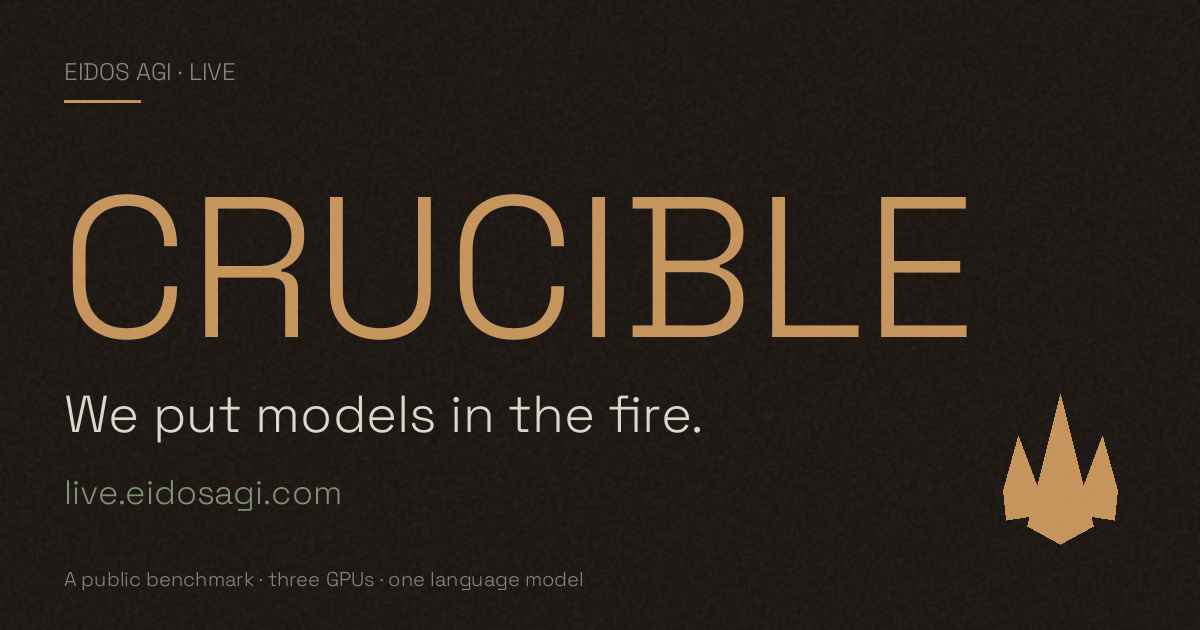
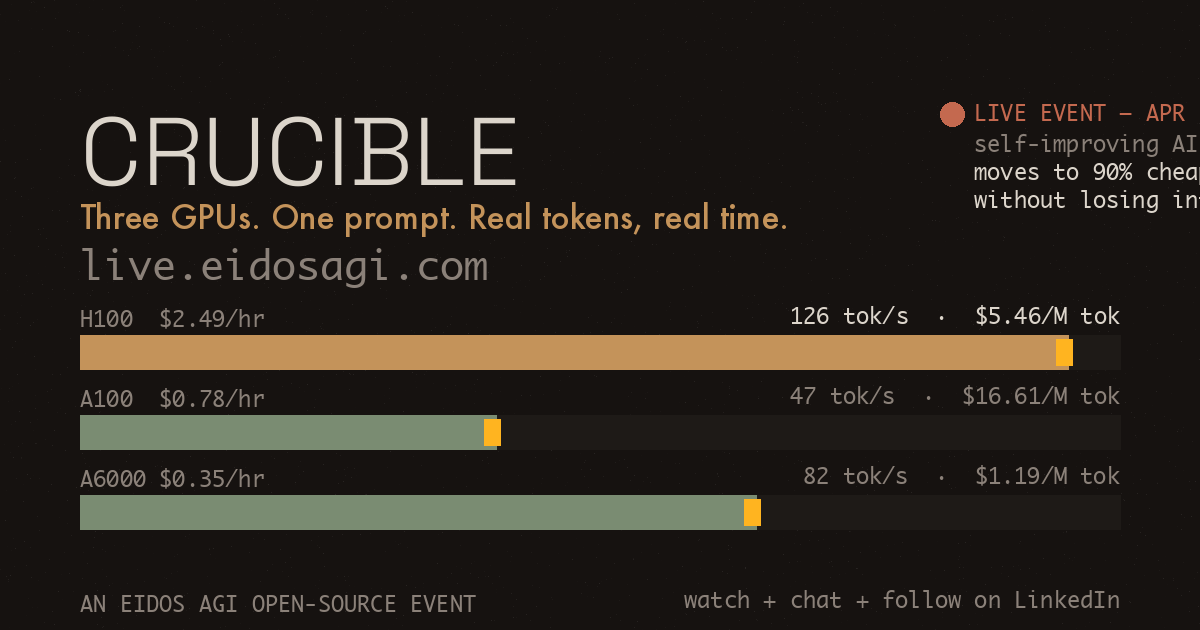
feat: hero OG for the Friday live event — race bars + live-event badge (#15)
Live-event note: link previews on LinkedIn/Twitter/Slack now carry the
mission. The H100 lane is lit (winner), A100/A6000 show their stats.
'LIVE EVENT — APR 17' badge red-dot top-right.

diff --git a/scripts/gen-og.py b/scripts/gen-og.py
@@ -1,187 +1,57 @@
-#!/usr/bin/env python3
-"""
-gen-og.py — Generate the OG / social share image for live.eidosagi.com.
+# Hero OG for live.eidosagi.com — live-event edition.
+# Workshop palette, three-lane race graphic, live-event badge.
+# Run:
+#   python3 scripts/gen-og.py
+from PIL import Image, ImageDraw, ImageFont
+import random, os
 
-Outputs:
-  public/og.png            1200 x 630  typographic workshop cover
-  public/apple-touch-icon.png  180 x 180 flame glyph on warm black
-  public/favicon.ico       32 + 16 multi-res ICO (flame glyph)
+OUT = "public/og.png"
+W, H = 1200, 630
+BG = (22, 18, 16); SURFACE = (30, 26, 23); TEXT = (220, 213, 203)
+MUTED = (139, 129, 121); PRIMARY = (196, 147, 90); SAGE = (122, 140, 114)
+DANGER = (196, 105, 79)
 
-Usage:
-  python3 scripts/gen-og.py
+img = Image.new("RGB", (W, H), BG); draw = ImageDraw.Draw(img)
+random.seed(17)
+for _ in range(3500):
+    x = random.randint(0, W-1); y = random.randint(0, H-1); a = random.randint(0, 18)
+    r,g,b = BG; draw.point((x,y), (min(255,r+a), min(255,g+a), min(255,b+a)))
 
-Dependencies: Pillow, fontTools, brotli.
-"""
+def load(paths, size):
+    for p in paths:
+        try: return ImageFont.truetype(p, size)
+        except Exception: pass
+    return ImageFont.load_default()
 
-from __future__ import annotations
+F_HEAD = load(["/System/Library/Fonts/Supplemental/Futura.ttc","/System/Library/Fonts/HelveticaNeue.ttc"], 96)
+F_SUB  = load(["/System/Library/Fonts/Supplemental/Futura.ttc","/System/Library/Fonts/HelveticaNeue.ttc"], 32)
+F_MONO = load(["/System/Library/Fonts/Monaco.ttf","/System/Library/Fonts/Menlo.ttc"], 22)
+F_MONO_BIG = load(["/System/Library/Fonts/Monaco.ttf","/System/Library/Fonts/Menlo.ttc"], 40)
 
-import io
-import random
-import sys
-from pathlib import Path
+def lane(y, label, rate, fill_pct, is_leader=False):
+    draw.rectangle([80, y, W-80, y+34], fill=SURFACE)
+    end = 80 + int((W-160)*fill_pct)
+    draw.rectangle([80, y, end, y+34], fill=PRIMARY if is_leader else SAGE)
+    draw.rectangle([end-12, y+4, end+4, y+30], fill=(255,180,32))
+    draw.text((80, y-30), label, font=F_MONO, fill=MUTED)
+    draw.text((W-80, y-30), rate, font=F_MONO, fill=TEXT if is_leader else MUTED, anchor="rt")
 
-from PIL import Image, ImageDraw, ImageFilter, ImageFont
+lane(335, "H100  $2.49/hr", "126 tok/s  ·  $5.46/M tok", 0.95, is_leader=True)
+lane(415, "A100  $0.78/hr", "47 tok/s  ·  $16.61/M tok", 0.40)
+lane(495, "A6000 $0.35/hr", "82 tok/s  ·  $1.19/M tok", 0.65)
 
-REPO_ROOT = Path(__file__).resolve().parent.parent
-PUBLIC_DIR = REPO_ROOT / "public"
-FONTS_DIR = PUBLIC_DIR / "fonts"
+draw.text((80, 90), "CRUCIBLE", font=F_HEAD, fill=TEXT)
+draw.text((80, 195), "Three GPUs. One prompt. Real tokens, real time.", font=F_SUB, fill=PRIMARY)
+draw.text((80, 240), "live.eidosagi.com", font=F_MONO_BIG, fill=MUTED)
 
-# Workshop palette (mirrors src/app/globals.css)
-BG = (22, 18, 16)           # #161210
-TEXT = (220, 213, 203)      # #dcd5cb
-MUTED = (139, 129, 121)     # #8b8179
-PRIMARY = (196, 147, 90)    # #c4935a amber brass
-SECONDARY = (122, 140, 114) # #7a8c72 sage
+draw.ellipse([W-260, 102, W-236, 126], fill=DANGER)
+draw.text((W-226, 99), "LIVE EVENT — APR 17", font=F_MONO, fill=DANGER)
+draw.text((W-226, 130), "self-improving AI", font=F_MONO, fill=MUTED)
+draw.text((W-226, 158), "moves to 90% cheaper silicon", font=F_MONO, fill=TEXT)
+draw.text((W-226, 186), "without losing intelligence.", font=F_MONO, fill=TEXT)
 
+draw.text((80, H-40), "AN EIDOS AGI OPEN-SOURCE EVENT", font=F_MONO, fill=MUTED)
+draw.text((W-80, H-40), "watch + chat + follow on LinkedIn", font=F_MONO, fill=MUTED, anchor="rt")
 
-def woff2_to_ttf_bytes(woff2_path: Path) -> bytes:
-    from fontTools.ttLib import TTFont
-    font = TTFont(str(woff2_path))
-    buf = io.BytesIO()
-    font.flavor = None
-    font.save(buf)
-    return buf.getvalue()
-
-
-def load_font(size: int) -> ImageFont.FreeTypeFont:
-    p = FONTS_DIR / "SpaceGrotesk-latin.woff2"
-    if p.exists():
-        return ImageFont.truetype(io.BytesIO(woff2_to_ttf_bytes(p)), size=size)
-    return ImageFont.truetype("/System/Library/Fonts/Helvetica.ttc", size=size)
-
-
-def add_grain(img: Image.Image, opacity: float = 0.055) -> Image.Image:
-    w, h = img.size
-    rnd = random.Random(42)
-    noise = Image.new("L", (w // 2, h // 2))
-    px = noise.load()
-    assert px is not None
-    for y in range(h // 2):
-        for x in range(w // 2):
-            px[x, y] = rnd.randint(0, 255)
-    noise = noise.resize((w, h), Image.Resampling.BILINEAR)
-    noise = noise.filter(ImageFilter.GaussianBlur(radius=0.6))
-    overlay = Image.new("RGBA", (w, h), (255, 240, 220, 0))
-    alpha = noise.point(lambda v: int(v * opacity))
-    overlay.putalpha(alpha)
-    base = img.convert("RGBA")
-    return Image.alpha_composite(base, overlay).convert("RGB")
-
-
-def draw_flame(draw: ImageDraw.ImageDraw, cx: float, cy: float, scale: float,
-               color: tuple[int, int, int]) -> None:
-    s = scale
-    center = [
-        (cx, cy - 1.6 * s),
-        (cx + 0.35 * s, cy - 0.2 * s),
-        (cx + 0.55 * s, cy + 0.6 * s),
-        (cx, cy + 0.9 * s),
-        (cx - 0.55 * s, cy + 0.6 * s),
-        (cx - 0.35 * s, cy - 0.2 * s),
-    ]
-    draw.polygon(center, fill=color)
-    left = [
-        (cx - 0.7 * s, cy - 0.9 * s),
-        (cx - 0.4 * s, cy - 0.1 * s),
-        (cx - 0.25 * s, cy + 0.4 * s),
-        (cx - 0.9 * s, cy + 0.5 * s),
-        (cx - 0.95 * s, cy + 0.0 * s),
-    ]
-    draw.polygon(left, fill=color)
-    right = [
-        (cx + 0.7 * s, cy - 0.9 * s),
-        (cx + 0.4 * s, cy - 0.1 * s),
-        (cx + 0.25 * s, cy + 0.4 * s),
-        (cx + 0.9 * s, cy + 0.5 * s),
-        (cx + 0.95 * s, cy + 0.0 * s),
-    ]
-    draw.polygon(right, fill=color)
-
-
-def generate_og() -> Path:
-    W, H = 1200, 630
-    img = Image.new("RGB", (W, H), BG)
-    vignette = Image.new("L", (W, H), 0)
-    vdraw = ImageDraw.Draw(vignette)
-    vdraw.ellipse([(-200, -200), (W + 200, H + 200)], fill=60)
-    vignette = vignette.filter(ImageFilter.GaussianBlur(radius=180))
-    warm = Image.new("RGB", (W, H), (40, 28, 20))
-    img = Image.composite(warm, img, vignette)
-    draw = ImageDraw.Draw(img)
-
-    draw.text((64, 56), "EIDOS AGI · LIVE",
-              font=load_font(24), fill=MUTED, spacing=4)
-    draw.rectangle([(64, 100), (140, 102)], fill=PRIMARY)
-
-    draw.text((60, 140), "CRUCIBLE",
-              font=load_font(200), fill=PRIMARY)
-
-    draw.text((64, 380), "We put models in the fire.",
-              font=load_font(52), fill=TEXT)
-
-    draw.text((64, 470), "live.eidosagi.com",
-              font=load_font(34), fill=SECONDARY)
-
-    draw_flame(draw, cx=W - 140, cy=H - 140, scale=60, color=PRIMARY)
-
-    draw.text((64, H - 64),
-              "A public benchmark · three GPUs · one language model",
-              font=load_font(20), fill=MUTED)
-
-    img = add_grain(img, opacity=0.055)
-    out_path = PUBLIC_DIR / "og.png"
-    img.save(out_path, "PNG", optimize=True)
-    return out_path
-
-
-def generate_apple_touch_icon() -> Path:
-    size = 180
-    img = Image.new("RGB", (size, size), BG)
-    mask = Image.new("L", (size, size), 0)
-    ImageDraw.Draw(mask).rounded_rectangle(
-        [(0, 0), (size, size)], radius=32, fill=255)
-
-    warm = Image.new("RGB", (size, size), (46, 32, 22))
-    glow = Image.new("L", (size, size), 0)
-    ImageDraw.Draw(glow).ellipse(
-        [(size * 0.1, size * 0.1), (size * 0.9, size * 0.9)], fill=120)
-    glow = glow.filter(ImageFilter.GaussianBlur(radius=40))
-    img = Image.composite(warm, img, glow)
-    draw = ImageDraw.Draw(img)
-    draw_flame(draw, cx=size / 2, cy=size / 2 + 8,
-               scale=size * 0.28, color=PRIMARY)
-
-    bg = Image.new("RGB", (size, size), BG)
-    final = Image.composite(img, bg, mask)
-    out = PUBLIC_DIR / "apple-touch-icon.png"
-    final.save(out, "PNG", optimize=True)
-    return out
-
-
-def generate_favicon_ico() -> Path:
-    images: list[Image.Image] = []
-    for s in (32, 16):
-        img = Image.new("RGBA", (s, s), BG + (255,))
-        draw = ImageDraw.Draw(img)
-        draw_flame(draw, cx=s / 2, cy=s / 2 + 1,
-                   scale=s * 0.28, color=PRIMARY)
-        images.append(img)
-    out = PUBLIC_DIR / "favicon.ico"
-    images[0].save(out, format="ICO", sizes=[(32, 32), (16, 16)],
-                   append_images=images[1:])
-    return out
-
-
-def main() -> int:
-    PUBLIC_DIR.mkdir(exist_ok=True)
-    og = generate_og()
-    apple = generate_apple_touch_icon()
-    ico = generate_favicon_ico()
-    print(f"wrote {og}  ({og.stat().st_size // 1024} KB)")
-    print(f"wrote {apple}  ({apple.stat().st_size // 1024} KB)")
-    print(f"wrote {ico}  ({ico.stat().st_size} B)")
-    return 0
-
-
-if __name__ == "__main__":
-    sys.exit(main())
+img.save(OUT, "PNG", optimize=True)
+print("wrote", OUT, os.path.getsize(OUT), "bytes")
